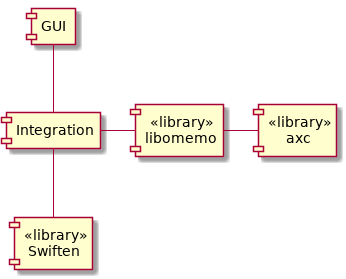
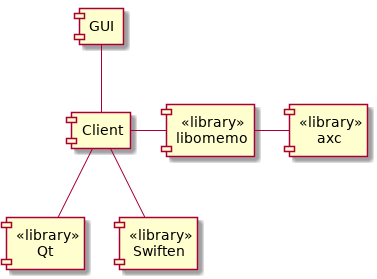
Deploy geobra/harbour-shmoose to github.com/geobra/harbour-shmoose.git:gh-pages

diff --git a/index.html b/index.html
@@ -694,6 +694,11 @@ The user is able to handle contacts. This can be</p>
 <div class="sect1">
 <h2 id="section-solution-strategy">4. Solution Strategy</h2>
 <div class="sectionbody">
+<div class="imageblock">
+<div class="content">
+<img src="./images/abstract_solution.png" alt="abstract solution">
+</div>
+</div>
 <div class="paragraph">
 <p>To reduce the workload and boost the quality of Shmoose, the client should be build on already existing and prooven components. A XMPP library is used to handle most of the implementation details of the main XEP&#8217;s, needed by a modern client. Additional all the encryption stuff will not be implemented from scratch but also used from already existing libraries.</p>
 </div>
@@ -706,26 +711,6 @@ The user is able to handle contacts. This can be</p>
 <p>TODO
 Map the quality goals to the details</p>
 </div>
-</div>
-<div class="sect2">
-<h3 id="_building_blocks">4.2. Building Blocks</h3>
-<div class="imageblock">
-<div class="content">
-<img src="./images/building_blocks.png" alt="building blocks">
-</div>
-</div>
-<div class="paragraph">
-<p>The GUI part will be implemented in QML. This allows a looslie coupled graphical interface from the rest of the implementation. On Sailfish OS, there is a proprietary qml extension named silica. This qml extension is not available on other plattforms. Because of this, the GUI part has to be developed separately for different target devices which is possible without touching or even recompiling the rest of the source code.</p>
-</div>
-<div class="paragraph">
-<p><a href="https://swift.im/swiften/api/">Swiften</a>, the main library used by Shmoose is responsible to handle most of the XMPP protocol details.</p>
-</div>
-<div class="paragraph">
-<p><a href="https://github.com/gkdr/libomemo">libomemo</a> and <a href="https://github.com/gkdr/axc">axc</a> are used to be able to implement the <a href="https://xmpp.org/extensions/xep-0384.html">OMEMO XEP</a>. Libomemo and axc mainly responsible to implement the encryption details.</p>
-</div>
-<div class="paragraph">
-<p>The integration part puts all the pieces together.</p>
-</div>
 <div style="page-break-after: always;"></div>
 </div>
 </div>
@@ -733,6 +718,23 @@ Map the quality goals to the details</p>
 <div class="sect1">
 <h2 id="section-building-block-view">5. Building Block View</h2>
 <div class="sectionbody">
+<div class="imageblock">
+<div class="content">
+<img src="./images/building_blocks.png" alt="building blocks">
+</div>
+</div>
+<div class="paragraph">
+<p>The GUI part will be implemented in QML. This allows a loosely coupled graphical interface from the rest of the implementation. On Sailfish OS, there is a proprietary qml extension named silica. This qml extension is not available on other plattforms. Because of this, the GUI part has to be developed separately for different target devices which is possible without touching or even recompiling the rest of the source code.</p>
+</div>
+<div class="paragraph">
+<p><a href="https://swift.im/swiften/api/">Swiften</a>, the main library used by Shmoose is responsible to handle most of the XMPP protocol details.</p>
+</div>
+<div class="paragraph">
+<p><a href="https://github.com/gkdr/libomemo">Libomemo</a> and <a href="https://github.com/gkdr/axc">axc</a> are used to be able to implement the <a href="https://xmpp.org/extensions/xep-0384.html">OMEMO XEP</a> and are mainly responsible to implement the E2E security details.</p>
+</div>
+<div class="paragraph">
+<p>The client part puts all the pieces together and makes heavy use of the <a href="https://www.qt.io/download-open-source">Qt library</a>.</p>
+</div>
 <div class="sect2">
 <h3 id="_whitebox_overall_system">5.1. Whitebox Overall System</h3>
 <div class="paragraph">
@@ -881,9 +883,11 @@ building block instances depicted in this diagram.&gt;</em></p>
 <h2 id="section-deployment-view">7. Deployment View</h2>
 <div class="sectionbody">
 <div class="sect2">
-<h3 id="_infrastructure_level_1">7.1. Infrastructure Level 1</h3>
-<div class="paragraph">
-<p><em><strong>&lt;Overview Diagram&gt;</strong></em></p>
+<h3 id="_production">7.1. Production</h3>
+<div class="imageblock">
+<div class="content">
+<img src="./images/deployment_smart_phone.png" alt="deployment smart phone">
+</div>
 </div>
 <div class="dlist">
 <dl>
@@ -903,29 +907,29 @@ building block instances depicted in this diagram.&gt;</em></p>
 </div>
 </div>
 <div class="sect2">
-<h3 id="_infrastructure_level_2">7.2. Infrastructure Level 2</h3>
-<div class="sect3">
-<h4 id="_infrastructure_element_1">7.2.1. <em>&lt;Infrastructure Element 1&gt;</em></h4>
-<div class="paragraph">
-<p><em>&lt;diagram + explanation&gt;</em></p>
+<h3 id="_development_and_testing">7.2. Development and testing</h3>
+<div class="imageblock">
+<div class="content">
+<img src="./images/deployment_testing.png" alt="deployment testing">
 </div>
 </div>
-<div class="sect3">
-<h4 id="_infrastructure_element_2">7.2.2. <em>&lt;Infrastructure Element 2&gt;</em></h4>
-<div class="paragraph">
-<p><em>&lt;diagram + explanation&gt;</em></p>
-</div>
-<div class="paragraph">
-<p>&#8230;&#8203;</p>
-</div>
-</div>
-<div class="sect3">
-<h4 id="_infrastructure_element_n">7.2.3. <em>&lt;Infrastructure Element n&gt;</em></h4>
-<div class="paragraph">
-<p><em>&lt;diagram + explanation&gt;</em></p>
+<div class="dlist">
+<dl>
+<dt class="hdlist1">Motivation</dt>
+<dd>
+<p><em>&lt;explanation in text form&gt;</em></p>
+</dd>
+<dt class="hdlist1">Quality and/or Performance Features</dt>
+<dd>
+<p><em>&lt;explanation in text form&gt;</em></p>
+</dd>
+<dt class="hdlist1">Mapping of Building Blocks to Infrastructure</dt>
+<dd>
+<p><em>&lt;description of the mapping&gt;</em></p>
+</dd>
+</dl>
 </div>
 <div style="page-break-after: always;"></div>
-</div>
 </div>
 </div>
 </div>
@@ -1011,7 +1015,7 @@ building block instances depicted in this diagram.&gt;</em></p>
 </div>
 <div id="footer">
 <div id="footer-text">
-Last updated 2020-03-09 20:43:57 UTC
+Last updated 2020-03-10 16:25:41 UTC
 </div>
 </div>
 </body>
